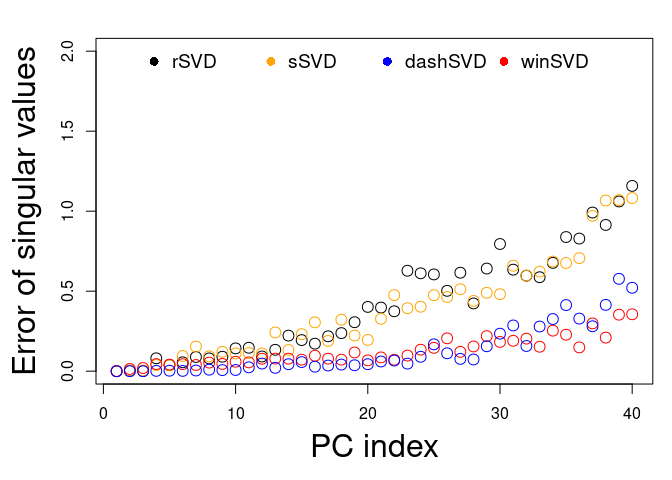
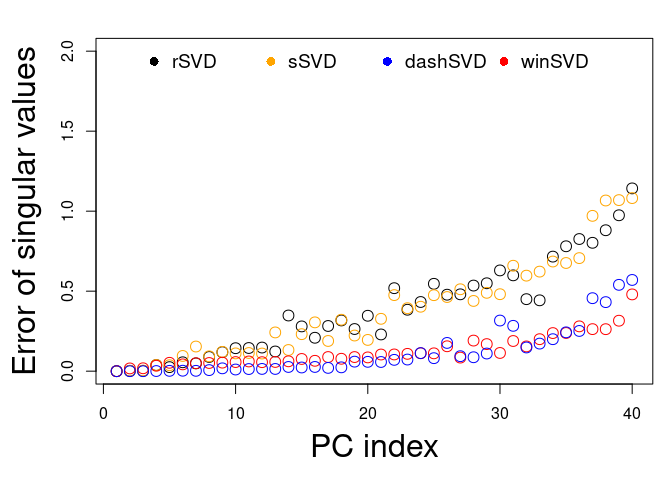
update readme

Changed region(s): [[0.1875, 0.5, 0.9688, 0.7812], [0.8125, 0.375, 0.9688, 0.5625]]

diff --git a/README.md b/README.md
@@ -36,9 +36,9 @@ mat <- matrix(rnorm(100*5000), 5000, 100)
 res <- pcaone(mat, k = 10)
 str(res)
 #> List of 3
-#>  $ d: num [1:10] 80.4 80.1 79.9 79 78.6 ...
-#>  $ u: num [1:5000, 1:10] 0.04199 0.00165 0.00775 0.00605 0.01877 ...
-#>  $ v: num [1:100, 1:10] -0.1023 0.1136 -0.0479 0.0457 -0.0982 ...
+#>  $ d: num [1:10] 81 80.1 79.5 79.1 78.6 ...
+#>  $ u: num [1:5000, 1:10] -0.00402 -0.00015 -0.00481 0.01755 0.00365 ...
+#>  $ v: num [1:100, 1:10] -0.1459 0.1601 0.0482 -0.0908 0.042 ...
 #>  - attr(*, "class")= chr "pcaone"
 ```
 
@@ -58,19 +58,19 @@ A <- popgen - rowMeans(popgen) ## center
 k <- 40
 system.time(s0 <- RSpectra::svds(A, k = k) )
 #>    user  system elapsed 
-#>  27.688   2.833   1.282
+#>  28.024  21.107   2.399
 system.time(s1 <- rsvd::rsvd(A, k = k, q = 4))  ## the number of epochs is two times of power iters, 4*2=8
 #>    user  system elapsed 
-#>   8.538  14.078   1.152
+#>   9.027  20.213   1.881
 system.time(s2 <- pcaone(A, k = k, method = "ssvd", p = 8))
 #>    user  system elapsed 
-#>   7.932   5.863   0.738
+#>   8.446   8.953   0.767
 system.time(s3 <- pcaone(A, k = k, method = "winsvd", p = 7))
 #>    user  system elapsed 
-#>  10.221   8.921   0.937
+#>  10.177  10.926   1.024
 system.time(s4 <- pcaone(A, k = k, method = "dashsvd", p = 6)) ## the number of epochs is 2 + power iters
 #>    user  system elapsed 
-#>  11.541  15.372   1.972
+#>  10.665  14.759   2.085
 
 par(mar = c(5, 5, 2, 1))
 plot(s0$d-s1$d, ylim = c(0, 10), xlab = "PC index", ylab = "Error of singular values", cex = 1.5, cex.lab = 2)
@@ -88,13 +88,13 @@ to reach the accuracy of `winSVD`.
 ``` r
 system.time(s1 <- rsvd::rsvd(A, k = k, q = 20))  ## the number of epochs is 4*20=40
 #>    user  system elapsed 
-#>  32.619  53.136   4.231
+#>  36.119  69.747   5.707
 system.time(s2 <- pcaone(A, k = k, method = "ssvd", p = 20))
 #>    user  system elapsed 
-#>  15.607   6.231   0.918
+#>  17.537  13.900   1.363
 system.time(s4 <- pcaone(A, k = k, method = "dashsvd", p = 18))
 #>    user  system elapsed 
-#>  27.619  41.514   4.493
+#>  29.395  52.729   5.321
 
 par(mar = c(5, 5, 2, 1))
 plot(s0$d-s1$d, ylim = c(0, 2), xlab = "PC index", ylab = "Error of singular values", cex = 1.5, cex.lab = 2)
@@ -121,12 +121,12 @@ timing <- microbenchmark(
   times=10)
 print(timing, unit='s')
 #> Unit: seconds
-#>            expr       min        lq     mean    median       uq      max neval
-#>        RSpectra 1.2353597 1.4116179 1.731160 1.7462612 1.980583 2.170780    10
-#>            rSVD 3.2378337 3.7664747 4.528873 4.5787277 5.091018 6.399555    10
-#>   pcaone.winsvd 0.8144586 0.8431530 1.035334 0.9515424 1.005934 2.018279    10
-#>     pcaone.ssvd 0.8590501 0.8756084 1.156631 0.9761875 1.598022 1.761097    10
-#>  pcaone.dashsvd 4.4119749 4.4745547 4.746664 4.5025322 4.739109 6.516111    10
+#>            expr       min       lq     mean   median       uq      max neval
+#>        RSpectra 1.4525233 1.843104 2.050252 1.873966 2.306075 2.773527    10
+#>            rSVD 4.5324825 4.658543 5.844413 5.714663 7.107667 7.930224    10
+#>   pcaone.winsvd 1.0078065 1.079937 1.346716 1.217142 1.336223 2.296519    10
+#>     pcaone.ssvd 0.9257167 1.059345 1.768647 1.867721 2.438595 2.569187    10
+#>  pcaone.dashsvd 4.3526371 4.644177 4.820574 4.862795 5.048073 5.097065    10
 ```
 
 ## References
